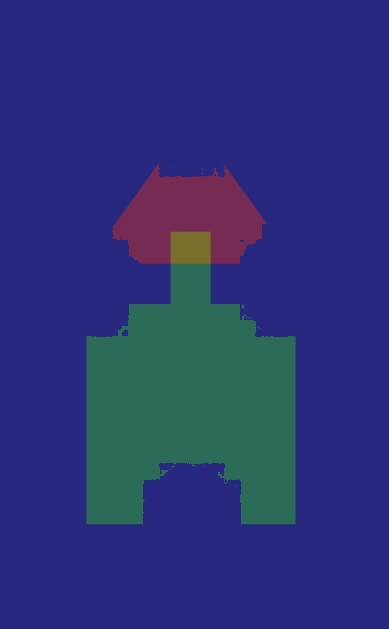
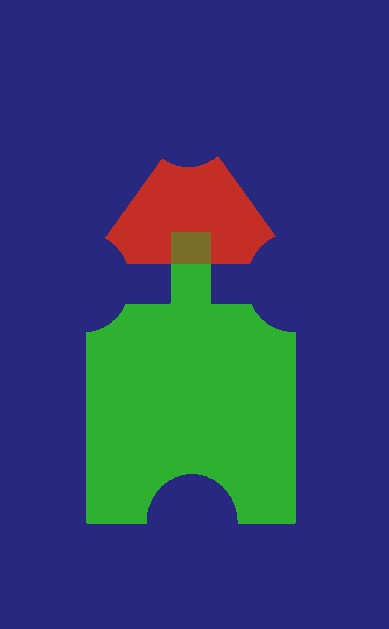
Add function to add/subtract image by classifying color using Euclidean distance

Changed region(s): [[0.2159, 0.2417, 0.7712, 0.8458]]

diff --git a/TeamProject/main.cpp b/TeamProject/main.cpp
@@ -3,7 +3,26 @@
 #include <direct.h>
 #include <iostream>
 #include <string>
+#include <cstdlib>
 #include "ximage.h"
+
+const int SQUID_BACKGROUND[3] = { 40, 40 ,128 };
+const int HEAD_COLOR[3] = { 197, 46, 39 };
+const int BODY_COLOR[3] = { 46, 176, 48 };
+const int BLACK_BACKGROUND[3] = { 0, 0, 0 };
+const int POINT_COLOR[3] = { 7, 65, 102 };
+
+/*
+COLOR TABLE
+used identify each pixels color in buffer, if you want to how it use see writeImage().
+
+0 unknown
+1 squid background
+2 haad color
+3 body color
+4 black background
+5 point color
+*/
 
 void load(CxImage& image, std::string filename) {
     std::wstring wFilename(filename.begin(), filename.end());
@@ -25,6 +44,103 @@ void save(CxImage& image, std::string filename) {
     else {
         std::cout << "Saving " << filename << " is failed." << std::endl;
     }
+}
+
+double colorDistance(const int color1[3], const int color2[3]) {
+    return sqrt(pow(color1[0] - color2[0], 2) +
+        pow(color1[1] - color2[1], 2) +
+        pow(color1[2] - color2[2], 2));
+}
+
+void sharpenHead(CxImage& image) {
+    DWORD height = image.GetHeight();
+    DWORD width = image.GetWidth();
+
+    for (DWORD y = 0; y < height; y++) {
+        for (DWORD x = 0; x < width; x++) {
+            RGBQUAD color = image.GetPixelColor(x, y);
+            int color1[3] = { color.rgbRed, color.rgbGreen, color.rgbBlue };
+            double backgroundDist = colorDistance(color1, SQUID_BACKGROUND);
+            double headDist = colorDistance(color1, HEAD_COLOR);
+
+            if (backgroundDist < headDist) {
+                RGBQUAD newColor;
+                newColor.rgbRed = SQUID_BACKGROUND[0];
+                newColor.rgbGreen = SQUID_BACKGROUND[1];
+                newColor.rgbBlue = SQUID_BACKGROUND[2];
+                image.SetPixelColor(x, y, newColor);
+            }
+            else {
+                RGBQUAD newColor;
+                newColor.rgbRed = HEAD_COLOR[0];
+                newColor.rgbGreen = HEAD_COLOR[1];
+                newColor.rgbBlue = HEAD_COLOR[2];
+                image.SetPixelColor(x, y, newColor);
+            }
+        }
+    }
+}
+
+void sharpenBody(CxImage& image) {
+    DWORD height = image.GetHeight();
+    DWORD width = image.GetWidth();
+
+    for (DWORD y = 0; y < height; y++) {
+        for (DWORD x = 0; x < width; x++) {
+            RGBQUAD color = image.GetPixelColor(x, y);
+            int color1[3] = { color.rgbRed, color.rgbGreen, color.rgbBlue };
+            double backgroundDist = colorDistance(color1, SQUID_BACKGROUND);
+            double bodyDist = colorDistance(color1, BODY_COLOR);
+
+            if (backgroundDist < bodyDist) {
+                RGBQUAD newColor;
+                newColor.rgbRed = SQUID_BACKGROUND[0];
+                newColor.rgbGreen = SQUID_BACKGROUND[1];
+                newColor.rgbBlue = SQUID_BACKGROUND[2];
+                image.SetPixelColor(x, y, newColor);
+            }
+            else {
+                RGBQUAD newColor;
+                newColor.rgbRed = BODY_COLOR[0];
+                newColor.rgbGreen = BODY_COLOR[1];
+                newColor.rgbBlue = BODY_COLOR[2];
+                image.SetPixelColor(x, y, newColor);
+            }
+        }
+    }
+}
+
+void sharpenPoints(CxImage& image) {
+    DWORD height = image.GetHeight();
+    DWORD width = image.GetWidth();
+
+    for (DWORD y = 0; y < height; y++) {
+        for (DWORD x = 0; x < width; x++) {
+            RGBQUAD color = image.GetPixelColor(x, y);
+            int color1[3] = { color.rgbRed, color.rgbGreen, color.rgbBlue };
+            double backgroundDist = colorDistance(color1, BLACK_BACKGROUND);
+            double pointDist = colorDistance(color1, POINT_COLOR);
+
+            if (backgroundDist < pointDist) {
+                RGBQUAD newColor;
+                newColor.rgbRed = BLACK_BACKGROUND[0];
+                newColor.rgbGreen = BLACK_BACKGROUND[1];
+                newColor.rgbBlue = BLACK_BACKGROUND[2];
+                image.SetPixelColor(x, y, newColor);
+            }
+            else {
+                RGBQUAD newColor;
+                newColor.rgbRed = POINT_COLOR[0];
+                newColor.rgbGreen = POINT_COLOR[1];
+                newColor.rgbBlue = POINT_COLOR[2];
+                image.SetPixelColor(x, y, newColor);
+            }
+        }
+    }
+}
+
+void antialiasing(CxImage& image) {
+
 }
 
 int*** getZeroBuffer(DWORD height, DWORD width) {
@@ -57,7 +173,40 @@ CxImage getCxImage(int*** buffer, DWORD height, DWORD width) {
     return image;
 }
 
-void writeImage(int*** buffer, CxImage image) {
+int checkColor(int colorRed, int colorGreen, int colorBlue) {
+    int const NOISE = 10;
+
+    if (abs(colorRed - SQUID_BACKGROUND[0]) < NOISE &&
+        abs(colorGreen - SQUID_BACKGROUND[1]) < NOISE &&
+        abs(colorBlue - SQUID_BACKGROUND[2]) < NOISE) {
+        return 1;
+    }
+    else if (abs(colorRed - HEAD_COLOR[0]) < NOISE &&
+        abs(colorGreen - HEAD_COLOR[1]) < NOISE &&
+        abs(colorBlue - HEAD_COLOR[2]) < NOISE) {
+        return 2;
+    }
+    else if (abs(colorRed - BODY_COLOR[0]) < NOISE &&
+        abs(colorGreen - BODY_COLOR[1]) < NOISE &&
+        abs(colorBlue - BODY_COLOR[2]) < NOISE) {
+        return 3; 
+    }
+    else if (abs(colorRed - BLACK_BACKGROUND[0]) < NOISE &&
+        abs(colorGreen - BLACK_BACKGROUND[1]) < NOISE &&
+        abs(colorBlue - BLACK_BACKGROUND[2]) < NOISE) {
+        return 4;
+    }
+    else if (abs(colorRed - POINT_COLOR[0]) < NOISE &&
+        abs(colorGreen - POINT_COLOR[1]) < NOISE &&
+        abs(colorBlue - POINT_COLOR[2]) < NOISE) {
+        return 5;
+    }
+    else {
+        return 0;
+    }
+}
+
+void addHead(int*** buffer, CxImage image) {
     DWORD height = image.GetHeight();
     DWORD width = image.GetWidth();
 
@@ -71,41 +220,44 @@ void writeImage(int*** buffer, CxImage image) {
     }
 }
 
-void addImage(int*** buffer, CxImage image) {
+void addBody(int*** buffer, CxImage image) {
     DWORD height = image.GetHeight();
     DWORD width = image.GetWidth();
 
     for (DWORD y = 0;y < height;y++) {
         for (DWORD x = 0; x < width; x++) {
             RGBQUAD color = image.GetPixelColor(x, y);
-            buffer[y][x][0] = (buffer[y][x][0] + color.rgbRed) / 2;
-            buffer[y][x][1] = (buffer[y][x][1] + color.rgbGreen) / 2;
-            buffer[y][x][2] = (buffer[y][x][2] + color.rgbBlue) / 2;
+            int buffer_color = checkColor(buffer[y][x][0], buffer[y][x][1], buffer[y][x][2]);
+            int image_color = checkColor(color.rgbRed, color.rgbGreen, color.rgbBlue);
+
+            if (buffer_color == 2 && image_color == 3) {
+                buffer[y][x][0] = (buffer[y][x][0] + color.rgbRed) / 2;
+                buffer[y][x][1] = (buffer[y][x][1] + color.rgbGreen) / 2;
+                buffer[y][x][2] = (buffer[y][x][2] + color.rgbBlue) / 2;
+            }
+            else if (buffer_color == 1 && image_color == 3) {
+                buffer[y][x][0] = color.rgbRed;
+                buffer[y][x][1] = color.rgbGreen;
+                buffer[y][x][2] = color.rgbBlue;
+            }
         }
     }
 }
 
-void subtractImage(int*** buffer, CxImage image) {
+void subPoints(int*** buffer, CxImage image) {
     DWORD height = image.GetHeight();
     DWORD width = image.GetWidth();
-
-    RGBQUAD backgroundColor = image.GetPixelColor(0, 0);
-    int backgroundColorRed = backgroundColor.rgbRed;
-    int backgroundColorGreen = backgroundColor.rgbGreen;
-    int backgroundColorBlue = backgroundColor.rgbBlue;
-
-    int bufferBackgroundColorRed = buffer[0][0][0];
-    int bufferBackgroundColorGreen = buffer[0][0][1];
-    int bufferBackgroundColorBlue = buffer[0][0][2];
 
     for (DWORD y = 0;y < height;y++) {
         for (DWORD x = 0; x < width; x++) {
             RGBQUAD color = image.GetPixelColor(x, y);
+            int buffer_color = checkColor(buffer[y][x][0], buffer[y][x][1], buffer[y][x][2]);
+            int image_color = checkColor(color.rgbRed, color.rgbGreen, color.rgbBlue);
 
-            if (!(color.rgbRed == backgroundColorRed && color.rgbGreen == backgroundColorGreen && color.rgbBlue == backgroundColorBlue)) {
-                buffer[y][x][0] = bufferBackgroundColorRed;
-                buffer[y][x][1] = bufferBackgroundColorGreen;
-                buffer[y][x][2] = bufferBackgroundColorBlue;
+            if (image_color == 5) {
+                buffer[y][x][0] = SQUID_BACKGROUND[0];
+                buffer[y][x][1] = SQUID_BACKGROUND[1];
+                buffer[y][x][2] = SQUID_BACKGROUND[2];
             }
         }
     }
@@ -122,14 +274,18 @@ int main() {
     load(squidBody, "squid_body.jpg");
     load(squidPoints, "squid_points.jpg");
 
+    sharpenHead(squidHead);
+    sharpenBody(squidBody);
+    sharpenPoints(squidPoints);
+
     //Modify buffer
     DWORD height = squidHead.GetHeight();
     DWORD width = squidHead.GetWidth();
 
     int*** buffer = getZeroBuffer(height, width);
-    writeImage(buffer, squidHead);
-    addImage(buffer, squidBody);
-    subtractImage(buffer, squidPoints);
+    addHead(buffer, squidHead);
+    addBody(buffer, squidBody);
+    subPoints(buffer, squidPoints);
 
     //Saving result file
     CxImage result = getCxImage(buffer, height, width);
